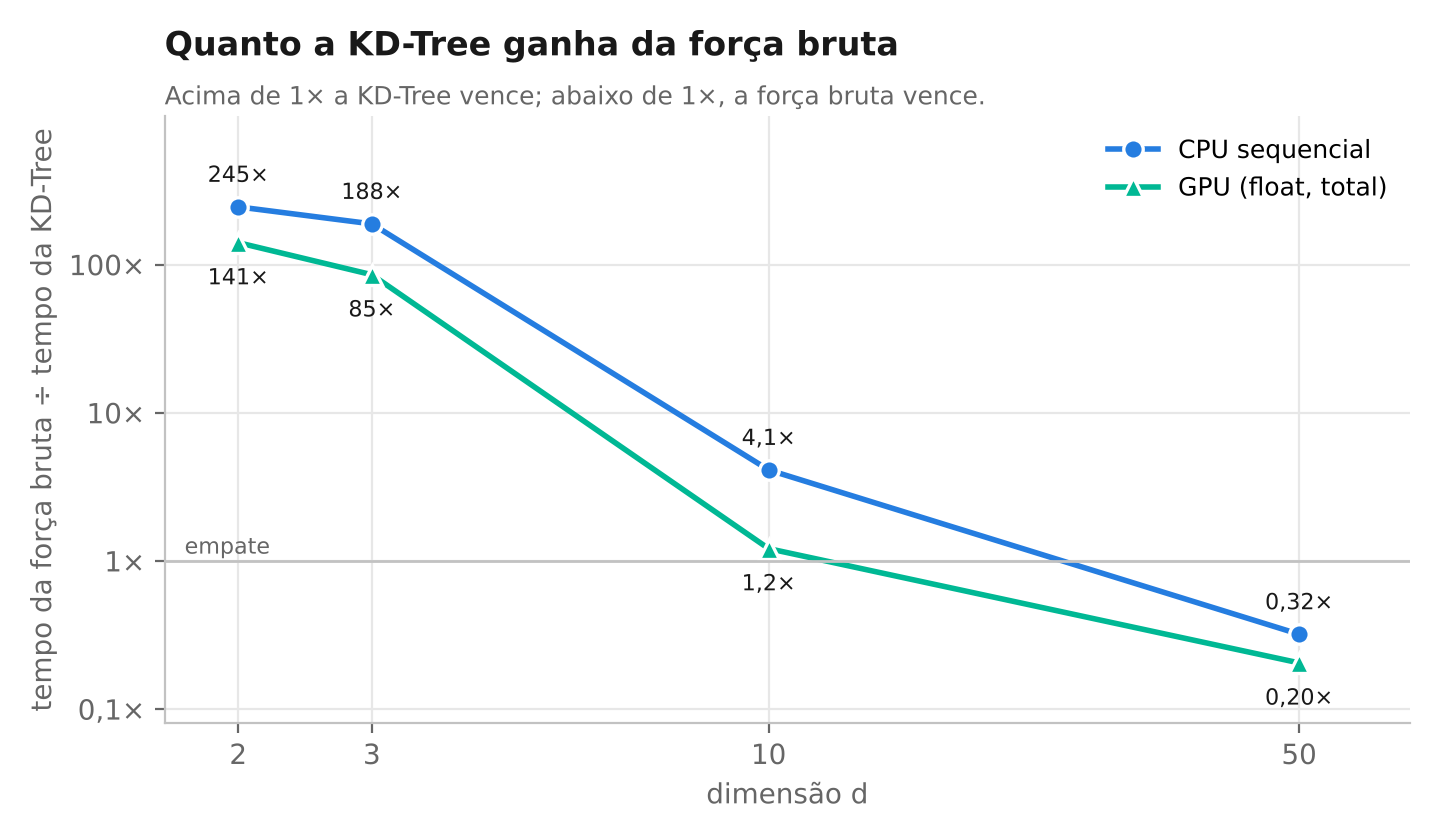
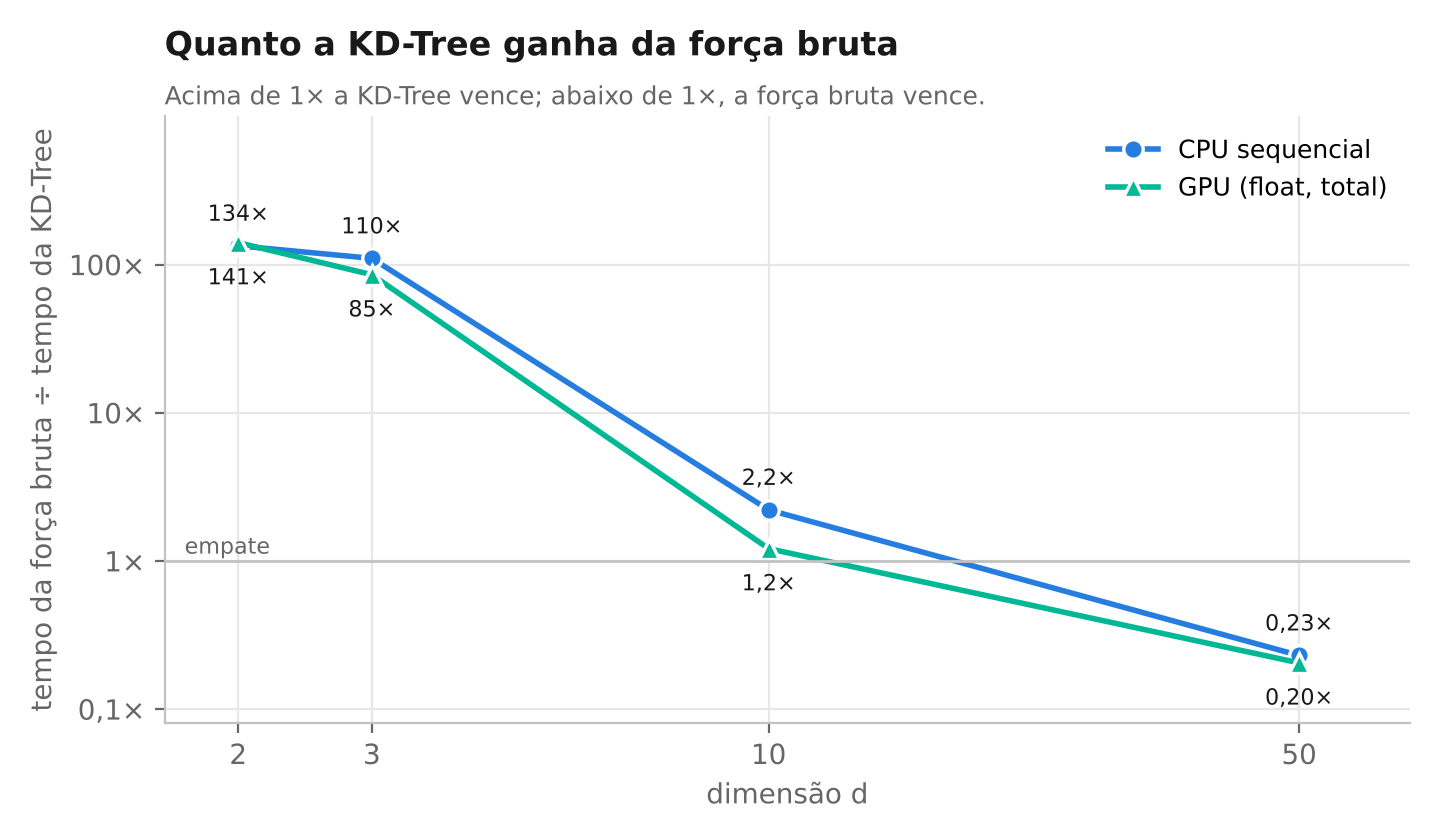
Atualiza README, grafico g4 e tabela t3

Changed region(s): [[0.1562, 0.1857, 0.5938, 0.619], [0.5625, 0.5881, 0.9375, 0.8048]]

diff --git a/README.md b/README.md
@@ -1,95 +1,118 @@
-# CTC04 — Tema 1.3: KD-Tree (Sequencial, Força Bruta, OpenMP e CUDA)
+# KD-Tree: vizinho mais próximo (1-NN e k-NN)
 
-Implementação e avaliação experimental de busca exata dos vizinhos mais próximos ($1$-NN e $k$-NN) utilizando **KD-Tree** e **Força Bruta** em versões sequencial (CPU), paralela em memória compartilhada (**OpenMP**) e paralela em acelerador gráfico (**CUDA**).
+Trabalho prático de PAA (CTC04, Prof. Sávio S. Dias), tema 1.3.
+Equipe: Cauã, Davi, Eduardo e Stricker.
 
-## Divisão do Trabalho
-- **Cauã:** construção da KD-Tree (seleção do eixo de corte e mediana) e busca sequencial $1$-NN e $k$-NN.
-- **Stricker:** implementação linear de força bruta (*baseline*), gerador de pontos aleatórios ($d \in \{2, 3, 10, 50\}$) e testes de corretude comparando KD-Tree vs. força bruta.
-- **Davi:** paralelização em CPU (OpenMP) e GPU (CUDA) e execução dos benchmarks de *speedup*.
-- **Eduardo:** análise da maldição da dimensionalidade, scripts/gráficos/tabelas de análise, README e referências.
+A gente implementou uma KD-Tree em C++ para achar o vizinho mais próximo de um ponto (1-NN) e os k vizinhos mais próximos (k-NN). Depois comparamos com a força bruta, paralelizamos com OpenMP e CUDA e medimos o que acontece quando a dimensão aumenta (a "maldição da dimensionalidade").
 
----
+Resumo do que descobrimos: a KD-Tree é muito boa em dimensão baixa (d = 2 e 3, de 110× a 134× mais rápida que a força bruta) e perde para ela em d = 50. O relatório explica o porquê, com números.
 
-## Estrutura do Projeto
-- `include/`: arquivos de cabeçalho (`.h` / `.hpp` / `.cuh`) com as estruturas de dados e interfaces da KD-Tree e dos algoritmos de busca.
-- `src/`: implementação principal da construção e busca da KD-Tree (`kdtree.cpp`).
-- `tests/`: suíte de testes unitários e de corretude (versões sequencial, OpenMP e CUDA).
-- `benchmarks/`: códigos de medição de desempenho, escalabilidade por threads e comparação final entre abordagens.
-- `resultados/`: arquivos `.csv` com os dados brutos e consolidados gerados pelos benchmarks.
+## O que precisa ter instalado
 
----
+- Um compilador C++17 (`g++`). Para os testes com OpenMP, o `g++` precisa aceitar `-fopenmp`.
+- Para a parte de GPU: CUDA Toolkit (`nvcc`) e uma placa NVIDIA. No Windows, o `nvcc` também precisa do Visual Studio (compilador `cl`).
+- Para os gráficos e tabelas: Python 3 com `numpy`, `pandas` e `matplotlib`.
 
-## Requisitos de Compilação e Execução
-- **Ambiente:** Windows (os comandos que utilizam `nvcc` devem ser executados no **x64 Native Tools Command Prompt**).
-- **CPU / OpenMP:** compilador `g++` com suporte a C++17 e OpenMP (`-fopenmp`).
-- **GPU / CUDA:** NVIDIA CUDA Toolkit, Visual Studio Build Tools e GPU NVIDIA compatível.
-  - *Nota sobre arquitetura:* os comandos abaixo utilizam `-arch=sm_89` (arquitetura Ada Lovelace, referente à **NVIDIA GeForce RTX 4050** usada nos testes). Caso compile em outra GPU, ajuste a *flag* `-arch=sm_XX` de acordo com a *Compute Capability* do seu dispositivo.
+## Como o projeto está organizado
 
----
+| Pasta | O que tem |
+|---|---|
+| `include/` | `kdtree.h` (a interface da árvore), `forca_bruta.hpp` (baseline) e `gerador.hpp` (gerador de pontos) |
+| `src/` | `kdtree.cpp`: construção da árvore e buscas 1-NN e k-NN |
+| `paralelo/` | versões com OpenMP (`omp_lote.h`, `omp_knn.cpp`) |
+| `gpu/` | kernels CUDA (`gpu_kernels.cuh`) |
+| `tests/` | testes de corretude |
+| `benchmarks/` | programas que medem tempo |
+| `scripts/` | scripts Python que geram gráficos e tabelas |
+| `resultados/` | CSVs com as medições |
+| `tabelas/` e `graficos/` | tabelas e gráficos prontos para o relatório |
 
-## Comandos de Compilação e Execução (Windows)
+## Como compilar e rodar os testes
 
-### 1. Testes Sequenciais (Construção, 1-NN, k-NN e Corretude)
-```bat
-g++ -O2 -std=c++17 -Iinclude src/kdtree.cpp tests/teste_construcao.cpp -o teste_construcao.exe
-teste_construcao.exe
+Rode tudo na raiz do projeto. Os testes sequenciais têm cada um o seu `main`, então compile um de cada vez:
 
-g++ -O2 -std=c++17 -Iinclude src/kdtree.cpp tests/teste_1nn.cpp -o teste_1nn.exe
-teste_1nn.exe
-
-g++ -O2 -std=c++17 -Iinclude src/kdtree.cpp tests/teste_knn.cpp -o teste_knn.exe
-teste_knn.exe
-
-g++ -O2 -std=c++17 -Iinclude src/kdtree.cpp tests/teste_corretude.cpp -o teste_corretude.exe
-teste_corretude.exe
+```bash
+g++ -std=c++17 -O2 -Wall -Iinclude src/kdtree.cpp tests/teste_construcao.cpp -o teste_construcao
+g++ -std=c++17 -O2 -Wall -Iinclude src/kdtree.cpp tests/teste_1nn.cpp -o teste_1nn
+g++ -std=c++17 -O2 -Wall -Iinclude src/kdtree.cpp tests/teste_knn.cpp -o teste_knn
+g++ -std=c++17 -O2 -Wall -Iinclude src/kdtree.cpp tests/teste_corretude.cpp -o teste_corretude
 ```
 
-### 2. Teste Paralelo OpenMP
-```bat
-g++ -O2 -std=c++17 -fopenmp -Iinclude src/kdtree.cpp tests/teste_paralelo.cpp -o teste_paralelo.exe
-teste_paralelo.exe
+Teste do OpenMP (confere que o resultado paralelo é igual ao sequencial com 1, 2, 3, 4, 8 e 16 threads):
+
+```bash
+g++ -std=c++17 -O2 -fopenmp -Iinclude src/kdtree.cpp tests/teste_paralelo.cpp -o teste_paralelo
 ```
 
-### 3. Teste GPU (CUDA)
-```bat
-nvcc -O3 -arch=sm_89 -std=c++17 -Iinclude src/kdtree.cpp tests/teste_gpu.cu -o teste_gpu.exe
-teste_gpu.exe
+Teste da GPU (precisa de CUDA):
+
+```bash
+nvcc -O3 -arch=sm_89 -std=c++17 -Iinclude src/kdtree.cpp tests/teste_gpu.cu -o teste_gpu
 ```
 
-### 4. Benchmark de Escalabilidade por Threads (OpenMP)
-```bat
-g++ -O2 -std=c++17 -fopenmp -Iinclude src/kdtree.cpp benchmarks/bench_threads.cpp -o bench_threads.exe
-bench_threads.exe
+Todos imprimem os testes que passaram no final. Se algum falhar, ele diz qual.
+
+> **Atenção:** `-arch=sm_89` é para a RTX 4050 do notebook onde a gente mediu. Se a sua placa for outra, troque pelo valor dela (por exemplo `sm_86` para uma RTX 3060).
+
+## Como rodar os benchmarks
+
+**Comparação KD-Tree × força bruta, com contagem de nós visitados** (sequencial):
+
+```bash
+g++ -O2 -std=c++17 -Iinclude src/kdtree.cpp benchmarks/baseline_e_poda.cpp -o baseline_e_poda
+./baseline_e_poda 1.0 3 resultados/baseline_e_poda.csv
 ```
 
-### 5. Benchmark Final (Sequencial, OpenMP e CUDA)
-```bat
-nvcc -O3 -arch=sm_89 -std=c++17 -Xcompiler "/O2,/openmp" -Iinclude src/kdtree.cpp benchmarks/bench_final.cu -o bench_final.exe
-bench_final.exe 3 1.0 7 saida.csv
+Os argumentos são a escala (1.0 = tamanho completo), o número de repetições e o arquivo de saída.
+
+**OpenMP por número de threads** (de 1 a 20):
+
+```bash
+g++ -O2 -std=c++17 -fopenmp -Iinclude src/kdtree.cpp benchmarks/bench_threads.cpp -o bench_threads
+./bench_threads 3 1.0
 ```
 
-> **Atenção:** Sem as flags `-O3` e `/O2`, o `nvcc` não otimiza adequadamente o código executado na CPU (*host*), fazendo com que os tempos fiquem entre **1,2× e 1,8× piores**.
+Os argumentos são as repetições e a escala.
 
----
+**Benchmark principal** (CPU sequencial, OpenMP, GPU com KD-Tree e GPU com força bruta, em `double` e `float`):
 
-## Máquina e Configuração de Testes
-- **Processador:** Intel Core i7-12650HX (20 threads)
-- **Memória RAM:** 16 GB
-- **GPU:** NVIDIA GeForce RTX 4050 Laptop (6 GB VRAM, `sm_89`)
-- **Sistema Operacional e Energia:** Windows 11, notebook conectado na tomada em modo *Melhor desempenho*
+```bash
+nvcc -O3 -arch=sm_89 -std=c++17 -Xcompiler "/O2,/openmp" -Iinclude src/kdtree.cpp benchmarks/bench_final.cu -o bench_final
+./bench_final 3 1.0 7 resultados/saida.csv
+```
 
----
+Os argumentos são: repetições na CPU, escala, repetições na GPU e arquivo de saída. As opções `-Xcompiler "/O2,/openmp"` são do Windows. Sem elas, o código da CPU compila sem otimização e os tempos pioram de 1,2× a 1,8×. No Linux, o equivalente é `-Xcompiler "-O2,-fopenmp"`.
 
-## Estrutura dos Resultados (`resultados/`)
-- `final_run1.csv`, `final_run2.csv`, `final_run3.csv`: saídas brutas das 3 rodadas executadas com `bench_final.exe`.
-- `resultados_final_mediana.csv`: consolidação estatística com mediana, mínimo, máximo e `speedup_vs_seq` para cada método e dimensionalidade (utilizado nas tabelas e gráficos do relatório).
-- `resultados_threads.csv`: tempos e fatores de *speedup* da versão OpenMP variando de 1 a 20 threads.
+**Gráficos e tabelas** (leem os CSVs de `resultados/`):
 
----
+```bash
+python scripts/gerar_graficos.py
+python scripts/experimento_dimensionalidade.py
+```
+
+## Como foi feita a medição
+
+- Máquina: notebook com Intel Core i7-12650HX (20 threads), 16 GB de RAM e NVIDIA RTX 4050 Laptop (6 GB), Windows 11, ligado na tomada em modo Melhor desempenho.
+- Dados: 100.000 pontos uniformes em [0,1]^d, semente 42, d = 2, 3, 10 e 50.
+- Consultas: 200.000 (d = 2 e 3), 20.000 (d = 10) e 1.000 (d = 50).
+- Cada medição é a mediana de várias repetições (3 na CPU, 7 na GPU), e o resultado final é a mediana de 3 execuções do programa (`resultados/final_run1.csv` a `final_run3.csv`).
+- O tempo da GPU inclui copiar dados para a placa e trazer a resposta de volta. A construção da árvore não é cronometrada.
+- A comparação KD-Tree × força bruta (`baseline_e_poda.csv`) usa só uma amostra de consultas (5.000 em d = 2 e 3, 2.000 em d = 10 e 200 em d = 50) e roda com 1 thread. Os tempos de d = 2 e 3 saem maiores que os do benchmark principal, então essas duas razões têm alguma incerteza. Uma rodada anterior, feita numa máquina virtual Linux, está em `baseline_e_poda_nuvem.csv`.
+
+## Cuidados ao ler os resultados
+
+- Em d = 50 foram só 1.000 consultas, o que é pouco para ocupar bem a GPU. Os speedups dessa dimensão são um piso.
+- Só medimos 1-NN. O k-NN está implementado e testado, mas não entrou nos benchmarks de GPU.
+- Só usamos dados uniformes, e n ficou fixo em 100.000.
+
+A lista completa de limitações está na seção 8 do relatório.
 
 ## Referências
-1. Bentley, J. L. (1975). *Multidimensional binary search trees used for associative searching*. Communications of the ACM, 18(9), 509–517.
-2. Friedman, J. H., Bentley, J. L., & Finkel, R. A. (1977). *An algorithm for finding best matches in logarithmic expected time*. ACM Transactions on Mathematical Software (TOMS), 3(3), 209–226.
-3. Beyer, K., Goldstein, J., Ramakrishnan, R., & Shaft, U. (1999). *When is “nearest neighbor” meaningful?* In Database Theory — ICDT’99 (pp. 217–235). Springer.
-4. NVIDIA Corporation (2024). *CUDA C++ Programming Guide*. Disponível em: https://docs.nvidia.com/cuda/cuda-c-programming-guide/
-5. OpenMP Architecture Review Board (2021). *OpenMP Application Program Interface (Version 5.2)*. Disponível em: https://www.openmp.org/specifications/
+
+1. Bellman, R. *Adaptive Control Processes: A Guided Tour*. Princeton University Press, 1961.
+2. Bentley, J. L. Multidimensional binary search trees used for associative searching. *Communications of the ACM*, 18(9), p. 509–517, 1975.
+3. Beyer, K.; Goldstein, J.; Ramakrishnan, R.; Shaft, U. When is "nearest neighbor" meaningful? In: *ICDT'99*, Springer, p. 217–235, 1999.
+4. Friedman, J. H.; Bentley, J. L.; Finkel, R. A. An algorithm for finding best matches in logarithmic expected time. *ACM Transactions on Mathematical Software*, 3(3), p. 209–226, 1977.
+5. NVIDIA. *CUDA C++ Programming Guide*.
+6. OpenMP Architecture Review Board. *OpenMP Application Programming Interface*.
+7. Weber, R.; Schek, H.-J.; Blott, S. A quantitative analysis and performance study for similarity-search methods in high-dimensional spaces. In: *VLDB*, p. 194–205, 1998.

diff --git a/tabelas/t3_maldicao.md b/tabelas/t3_maldicao.md
@@ -1,6 +1,6 @@
 |   d |   KD-Tree seq (µs/consulta) |   × d=2 |   KD-Tree GPU float (s) |   Força bruta GPU float (s) |   bruta ÷ KD (GPU) |   bruta ÷ KD (CPU seq.) |   fração de nós visitados (%) |
 |----:|----------------------------:|--------:|------------------------:|----------------------------:|-------------------:|------------------------:|------------------------------:|
-|   2 |                        0.45 |     1   |                0.001284 |                    0.180586 |             140.64 |                  245.33 |                         0.021 |
-|   3 |                        0.77 |     1.7 |                0.002268 |                    0.19378  |              85.44 |                  188.23 |                         0.035 |
-|  10 |                      109.45 |   245.9 |                0.062885 |                    0.076102 |               1.21 |                    4.11 |                         4.046 |
-|  50 |                     9404.53 | 21130.5 |                0.564222 |                    0.115613 |               0.2  |                    0.32 |                       100     |
+|   2 |                        0.45 |     1   |                0.001284 |                    0.180586 |             140.64 |                  133.98 |                         0.021 |
+|   3 |                        0.77 |     1.7 |                0.002268 |                    0.19378  |              85.44 |                  110.18 |                         0.035 |
+|  10 |                      109.45 |   245.9 |                0.062885 |                    0.076102 |               1.21 |                    2.21 |                         4.046 |
+|  50 |                     9404.53 | 21130.5 |                0.564222 |                    0.115613 |               0.2  |                    0.23 |                       100     |
